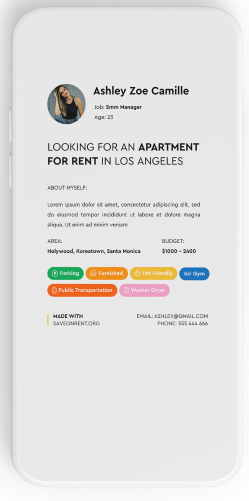
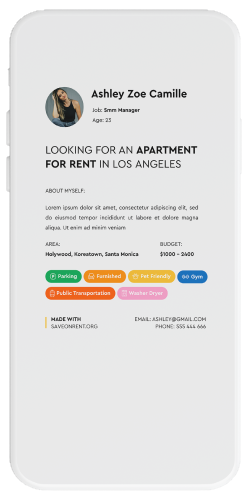
apdate css

diff --git a/saveonrent/src/media.css b/saveonrent/src/media.css
@@ -1,0 +1,81 @@
+@media (max-width: 500px)
+{
+    body section{
+        padding: 0;
+    }
+    .sectionHeder{
+        display: flex;
+        flex-direction: column;
+        align-items: center;
+        justify-content: center;
+        height: 120px;
+        width: 100%;
+     }
+     
+     .HederLinks ul{
+        display: flex;
+        flex-direction: column;
+     }
+     
+     .HederLinks ul li{
+     margin-left: 20px;
+     margin-top: 10px;
+     }
+     
+     .HederA{
+        color: black;
+        font-family: Cera Pro;
+     font-size: 14px;
+     font-weight: 700;
+     }
+     
+     
+     .grenLinks ,.HederA:hover{
+        color: #01A358;
+        font-family: Cera Pro;
+     font-size: 14px;
+     font-weight: 700;
+     }
+
+     .flagmanSection{
+        display: flex;
+        flex-direction: column;
+        background-color:  #F7F7F7;
+    }
+    
+    .flagmanSection div{
+        margin-top: 50px;
+    }
+    
+    .flagmanText{
+        display: flex;
+        flex-direction: column;
+        align-items: center;
+        justify-content: start;
+    }
+    
+    .flagmanTextMain{
+        font-family: Cera Pro;
+        font-size: 15px;
+        font-weight: 700;
+    }
+    .flagmanTextSecond{
+        font-family: Cera Pro;
+        font-size: 8px ;
+        font-weight: 400;
+        line-height: 5px;
+    }
+    
+    .flagmanImg{
+        margin-left: 100px;
+    }
+    
+    .yelow{
+        color: #fdb932;
+    }
+    
+    .pink{
+        color: #fe99c4;
+    }
+
+}

diff --git a/saveonrent/src/heder/Heder.css b/saveonrent/src/heder/Heder.css
@@ -1,40 +1,31 @@
-@import url("../assets/stylesheet.css");
-
 .sectionHeder{
-   margin: 0 15% 0 15% ;   
-    display: flex;
-    align-items: center;
-    height: 120px;
-    width: auto;
-    justify-content: space-between;
-  }
-
- .HederLinks ul {
-    display: flex;
-    flex-direction: row;
- }
-
- .HederLinks li{
-    margin: 10px;
- }
-
- .HederA{
-    font-family: Cera Pro;
-    font-size: 14px;
-    font-weight: 700;
-    line-height: 17.6px;
-    text-align: left;
-    color: black;    
-    text-transform: uppercase;
+   display: flex;
+   align-items: center;
+   justify-content: space-between;
+   height: 120px;
+   flex-direction: row;
 }
-  
 
-.grenLinks{
-   color:  #01A358;
+.HederLinks ul{
+   display: flex;
+   flex-direction: row;
+}
+
+.HederLinks ul li{
+margin-left: 20px;
+}
+
+.HederA{
+   color: black;
    font-family: Cera Pro;
-   font-size: 14px;
-   font-weight: 700;
-   line-height: 17.6px;
-   text-align: left;
-   text-transform: uppercase;
+font-size: 14px;
+font-weight: 700;
+}
+
+
+.grenLinks ,.HederA:hover{
+   color: #01A358;
+   font-family: Cera Pro;
+font-size: 14px;
+font-weight: 700;
 }

diff --git a/saveonrent/src/flagman/Flagman.css b/saveonrent/src/flagman/Flagman.css
@@ -1,27 +1,34 @@
+.flagmanSection{
+    display: flex;
+    flex-direction: row;
+    background-color:  #F7F7F7;
+}
+
+.flagmanSection div{
+    margin-top: 50px;
+}
+
+.flagmanText{
+    display: flex;
+    flex-direction: column;
+    justify-content: center;
+}
 
 .flagmanTextMain{
     font-family: Cera Pro;
     font-size: 48px;
     font-weight: 700;
 }
-
-
-.flagmanTextSecond p{
+.flagmanTextSecond{
+    margin-top: 50px;
     font-family: Cera Pro;
     font-size: 14px;
     font-weight: 400;
+    line-height: 25.2px;
 }
 
-.flagmanSection{
-    display: flex;
-    flex-direction: row;
-    background-color: #F7F7F7;
-    align-items: center;
-    justify-content: center;
-}
-
-.flagmanSection div{
-    margin: 50px;
+.flagmanImg{
+    margin-left: 100px;
 }
 
 .yelow{

diff --git a/saveonrent/src/assets/creactor/Create.css b/saveonrent/src/assets/creactor/Create.css
@@ -6,7 +6,10 @@
 
 
 .sectionCreate{
-    margin: 0 15% 0 15%;
+    display: flex;
+    align-items: center;
+    flex-direction: column;
+    
 }
 
 
@@ -17,10 +20,30 @@
 .CreateBLOX{
     margin-top: 100px;
     display: flex;
+    flex-direction: row;
 }
 
-.CreateBLOX div {
-    width: 500%;
+.createRightSection{
+    display: flex;
+    width: 500px;
     height: 700px;
     border: 1px solid black;
+    flex-direction: column;
+    align-items: center;
+    margin: px;
+}
+
+.Constructor{
+    font-family: Cera Pro;
+font-size: 14px;
+font-weight: 700;
+color: #C4C4C4;
+
+}
+
+.line{
+    border: 1px solid #C4C4C4;
+    width: 500px;
+    height: 0px;
+    margin-top: 10px;
 }

diff --git a/saveonrent/src/assets/creactor/Creates.jsx b/saveonrent/src/assets/creactor/Creates.jsx
@@ -1,12 +1,13 @@
 import './Create.css'
+import Left from './Left';
+import Right from './Right';
 
 export default function Creates(){
     return (<section className="sectionCreate">
-        <h3 className='CreateMainSlogan'>Create infographics<br/>
-for free</h3>
+        
             <div className='CreateBLOX'> 
-                <div className="reght">r</div>
-                <div className="left">l</div>
+                <Right></Right>
+                <Left></Left>
             </div>
     </section>);
 }

diff --git a/saveonrent/src/App.jsx b/saveonrent/src/App.jsx
@@ -3,13 +3,16 @@ import './reset.css'
 import Heder from './heder/Heder.jsx'
 import Flagman from './flagman/Flagman.jsx'
 import Creates from './assets/creactor/Creates.jsx'
+import './media.css'
 function App() {
   return (
     <>
       <Heder/>
       <main>
         <Flagman/>
-        <Creates/>
+        <h3 className='CreateMainSlogan'>Create infographics<br/>
+for free</h3>
+        {/* <Creates/> */}
       </main>
     </>
   )

diff --git a/saveonrent/src/heder/Heder.jsx b/saveonrent/src/heder/Heder.jsx
@@ -15,7 +15,7 @@ export default function Header() {
     }
 
     return(
-        <header>
+    
             <section className="sectionHeder">
                 <div className="logo"> <img src={hederLogo} alt="hederlogo"/></div>
                 <div className="HederLinks">
@@ -31,6 +31,6 @@ export default function Header() {
                     </ul>
                 </div>
             </section>
-        </header>
+     
     );
 }

diff --git a/saveonrent/src/assets/creactor/Right.jsx b/saveonrent/src/assets/creactor/Right.jsx
@@ -1,0 +1,10 @@
+import './Create.css'
+
+export default function Right(){
+    return<>
+    <section className="createRightSection">
+        <p className='Constructor'>Constructor</p>
+        <div className='line'></div>
+    </section>
+    </>
+}

diff --git a/saveonrent/src/data.js b/saveonrent/src/data.js
@@ -1,6 +1,6 @@
 export const hederLiksName = [
-  {name:"about company"},
-  {name:"about company"},
-  {name:"about company"}
+  {name:"about company 1"},
+  {name:"about company 2"},
+  {name:"about company 3"}
 ];
 

diff --git a/saveonrent/src/App.css b/saveonrent/src/App.css
@@ -1,0 +1,3 @@
+body section {
+    padding: 0 15% 0 15%;
+}
